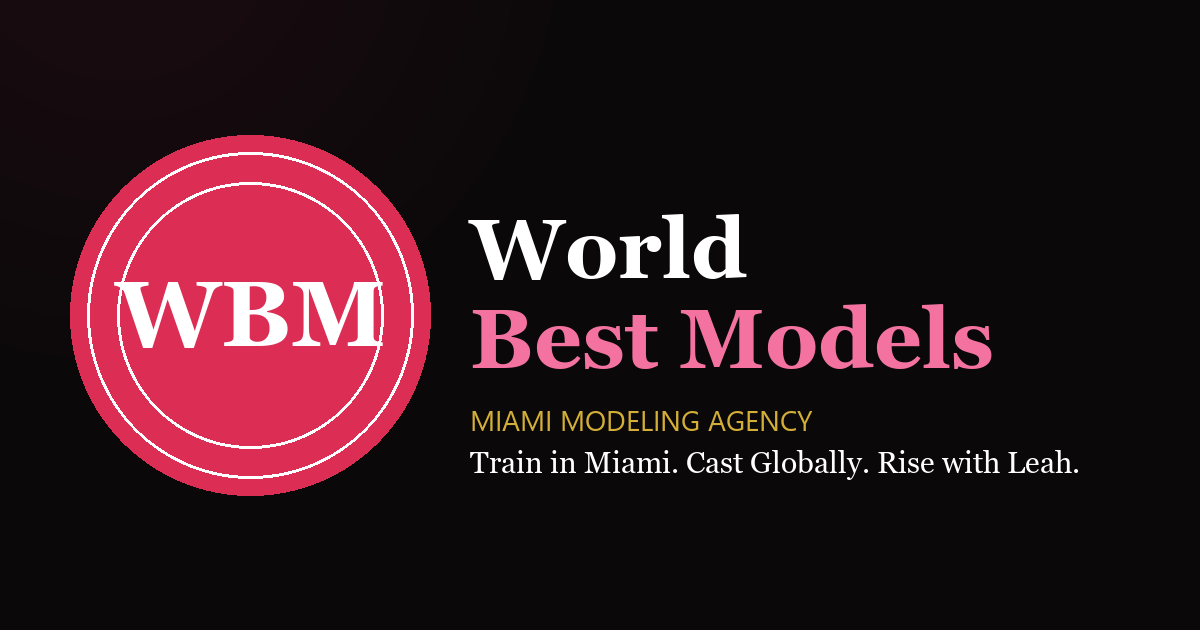
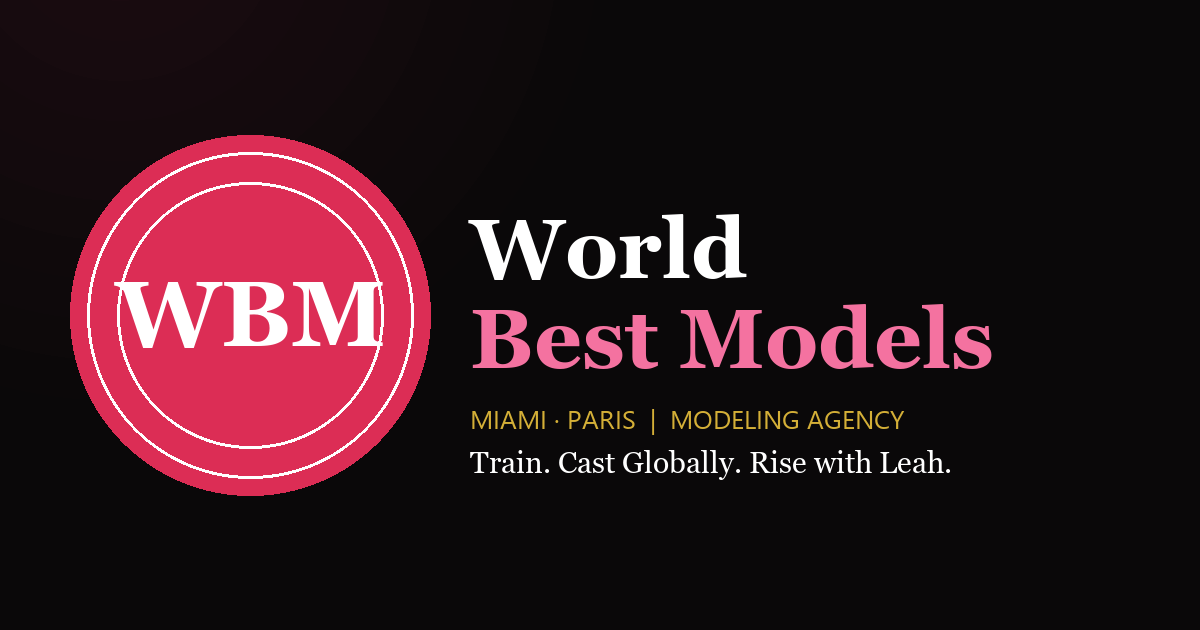
Add Paris: agency is based in Miami & Paris (copy, meta, og-image)

Changed region(s): [[0.4008, 0.6333, 0.8942, 0.754]]

diff --git a/index.html b/index.html
@@ -3,23 +3,23 @@
 <head>
   <meta charset="UTF-8" />
   <meta name="viewport" content="width=device-width, initial-scale=1.0" />
-  <title>World Best Models | Miami Modeling Agency | Leah Kiss</title>
-  <meta name="description" content="Miami modeling coaching with Leah Kiss — runway training, casting prep & career mentorship. Train in Miami, cast globally, and get signed with top agencies. All levels welcome." />
+  <title>World Best Models | Miami &amp; Paris Modeling Agency | Leah Kiss</title>
+  <meta name="description" content="Modeling coaching with Leah Kiss, based in Miami & Paris — runway training, casting prep & career mentorship. Train, cast globally, and get signed with top agencies. All levels welcome." />
   <meta name="keywords" content="modeling agency miami, runway training miami, leah kiss, world best models, model coaching miami, castings miami, runway classes miami, model mentorship" />
   <link rel="canonical" href="https://crazegaming1115.github.io/worldbestmodels/" />
 
   <!-- Open Graph / social sharing -->
-  <meta property="og:title" content="World Best Models | Miami Modeling Agency" />
+  <meta property="og:title" content="World Best Models | Miami &amp; Paris Modeling Agency" />
   <meta property="og:description" content="Runway training, casting prep & mentorship with Leah Kiss. Train in Miami, cast globally, rise with Leah." />
   <meta property="og:type" content="website" />
   <meta property="og:url" content="https://crazegaming1115.github.io/worldbestmodels/" />
   <meta property="og:image" content="https://crazegaming1115.github.io/worldbestmodels/og-image.png" />
   <meta property="og:image:width" content="1200" />
   <meta property="og:image:height" content="630" />
-  <meta property="og:image:alt" content="World Best Models — Miami Modeling Agency" />
+  <meta property="og:image:alt" content="World Best Models — Miami &amp; Paris Modeling Agency" />
   <meta property="og:site_name" content="World Best Models" />
   <meta name="twitter:card" content="summary_large_image" />
-  <meta name="twitter:title" content="World Best Models | Miami Modeling Agency" />
+  <meta name="twitter:title" content="World Best Models | Miami &amp; Paris Modeling Agency" />
   <meta name="twitter:description" content="Runway training, casting prep & mentorship with Leah Kiss in Miami." />
   <meta name="twitter:image" content="https://crazegaming1115.github.io/worldbestmodels/og-image.png" />
 
@@ -51,7 +51,7 @@
       "addressRegion": "FL",
       "addressCountry": "US"
     },
-    "areaServed": "Miami, Florida",
+    "areaServed": ["Miami, Florida", "Paris, France"],
     "sameAs": [
       "https://www.instagram.com/wbm.worldbestmodels/",
       "https://wa.me/17865689522"
@@ -2019,7 +2019,7 @@
     <div class="orb orb-3" aria-hidden="true"></div>
 
     <div class="hero-content">
-      <p class="hero-eyebrow">Miami · Florida · Est. 2024</p>
+      <p class="hero-eyebrow">Miami · Paris · Est. 2024</p>
       <h1 class="hero-title">
         <span class="line-plain">World</span>
         <span class="line-pink">Best Models</span>
@@ -2048,14 +2048,14 @@
       <span>Runway Training</span><span class="sep"> ✦ </span>
       <span>Professional Coaching</span><span class="sep"> ✦ </span>
       <span>Castings</span><span class="sep"> ✦ </span>
-      <span>Miami Modeling Agency</span><span class="sep"> ✦ </span>
+      <span>Miami &amp; Paris Modeling Agency</span><span class="sep"> ✦ </span>
       <span>World Best Models</span><span class="sep"> ✦ </span>
       <span>Miami · Paris · New York</span><span class="sep"> ✦ </span>
       <span>Directed by Leah Kiss</span><span class="sep"> ✦ </span>
       <span>Runway Training</span><span class="sep"> ✦ </span>
       <span>Professional Coaching</span><span class="sep"> ✦ </span>
       <span>Castings</span><span class="sep"> ✦ </span>
-      <span>Miami Modeling Agency</span><span class="sep"> ✦ </span>
+      <span>Miami &amp; Paris Modeling Agency</span><span class="sep"> ✦ </span>
       <span>World Best Models</span><span class="sep"> ✦ </span>
       <span>Miami · Paris · New York</span><span class="sep"> ✦ </span>
       <span>Directed by Leah Kiss</span><span class="sep"> ✦ </span>
@@ -2091,8 +2091,8 @@
         <p class="reveal reveal-delay-2">
           From mastering the runway walk to booking real campaigns, Leah personally coaches every model
           through a transformative journey — building confidence, presence, and a career built to last.
-          Based in the heart of <strong>Miami, Florida</strong>, we work with aspiring and professional
-          models across all experience levels.
+          Based in both <strong>Miami</strong> and <strong>Paris</strong>, we work with aspiring and
+          professional models across all experience levels.
         </p>
         <div class="about-stats">
           <div class="stat reveal reveal-delay-1">
@@ -2104,8 +2104,8 @@
             <div class="stat-label">Personal Coaching</div>
           </div>
           <div class="stat reveal reveal-delay-3">
-            <div class="stat-num">MIA</div>
-            <div class="stat-label">Based in Miami</div>
+            <div class="stat-num">2</div>
+            <div class="stat-label">Cities · Miami &amp; Paris</div>
           </div>
         </div>
       </div>
@@ -2229,8 +2229,8 @@
         </div>
         <div class="why-card reveal reveal-delay-2">
           <div class="why-icon">🌴</div>
-          <h3>Miami Connections</h3>
-          <p>Rooted in one of the world's top fashion capitals, we connect our models to real local casting calls, Miami fashion weeks, and industry events.</p>
+          <h3>Miami &amp; Paris Connections</h3>
+          <p>Rooted in two of the world's top fashion capitals, we connect our models to real casting calls, fashion weeks, and industry events across Miami and Paris.</p>
         </div>
         <div class="why-card reveal reveal-delay-3">
           <div class="why-icon">🚀</div>
@@ -2497,7 +2497,7 @@
 
         <div class="faq-item reveal">
           <button class="faq-q" aria-expanded="false">Do I have to be in Miami?<span class="faq-icon" aria-hidden="true"></span></button>
-          <div class="faq-a"><p>WBM is based in <strong>Miami, Florida</strong>, and most coaching happens in person here. If you're traveling in or based elsewhere, message Leah — she'll let you know what's possible and how castings abroad (like Paris) fit in.</p></div>
+          <div class="faq-a"><p>WBM is based in <strong>Miami</strong> and <strong>Paris</strong>, so coaching happens in person in both cities. If you're based somewhere else or traveling in, message Leah — she'll let you know what's possible and how castings between Miami and Paris fit in.</p></div>
         </div>
 
         <div class="faq-item reveal">
@@ -2549,7 +2549,7 @@
             <div class="ci-icon">📍</div>
             <div class="ci-text">
               <span class="ci-label">Location</span>
-              <span class="ci-value">Miami, Florida</span>
+              <span class="ci-value">Miami, FL &amp; Paris, France</span>
             </div>
           </div>
           <div class="contact-item reveal reveal-delay-3">
@@ -2633,7 +2633,7 @@
             <img src="logo.svg" alt="World Best Models" style="width:44px;height:44px;object-fit:contain;" onerror="this.style.display='none'"/>
             <span>𝑾𝒐𝒓𝒍𝒅 𝑩𝒆𝒔𝒕 𝑴𝒐𝒅𝒆𝒍𝒔</span>
           </div>
-          <p>Miami's Premier Modeling Agency · Directed by Leah Kiss</p>
+          <p>Miami &amp; Paris Modeling Agency · Directed by Leah Kiss</p>
         </div>
         <ul class="footer-links">
           <li><a href="#about">About</a></li>
@@ -2659,7 +2659,7 @@
       <hr class="footer-divider" />
       <div class="footer-bottom">
         <p class="footer-copy">World Best Models — founded &amp; directed by Leah Kiss. &copy; 2026. All rights reserved.</p>
-        <p class="footer-location">Based in <span>Miami, Florida</span></p>
+        <p class="footer-location">Based in <span>Miami &amp; Paris</span></p>
       </div>
     </div>
   </footer>